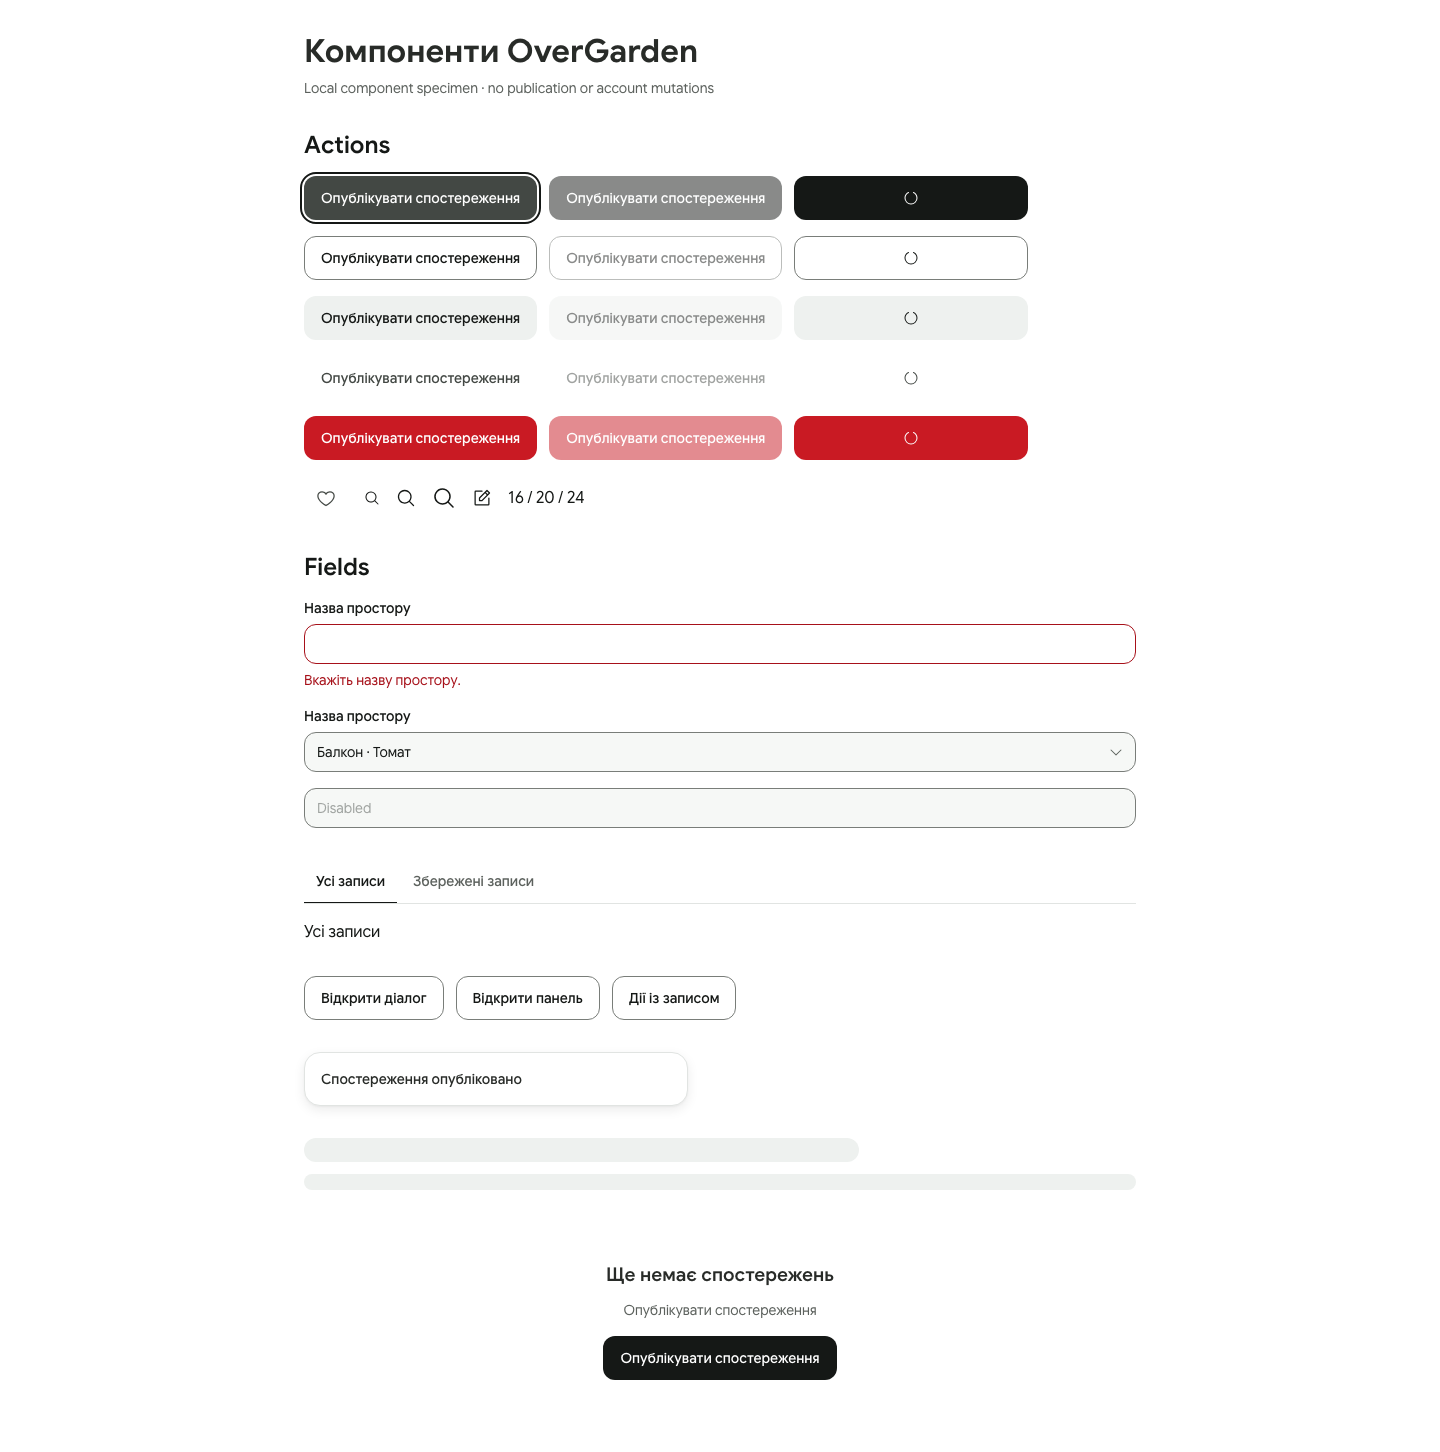
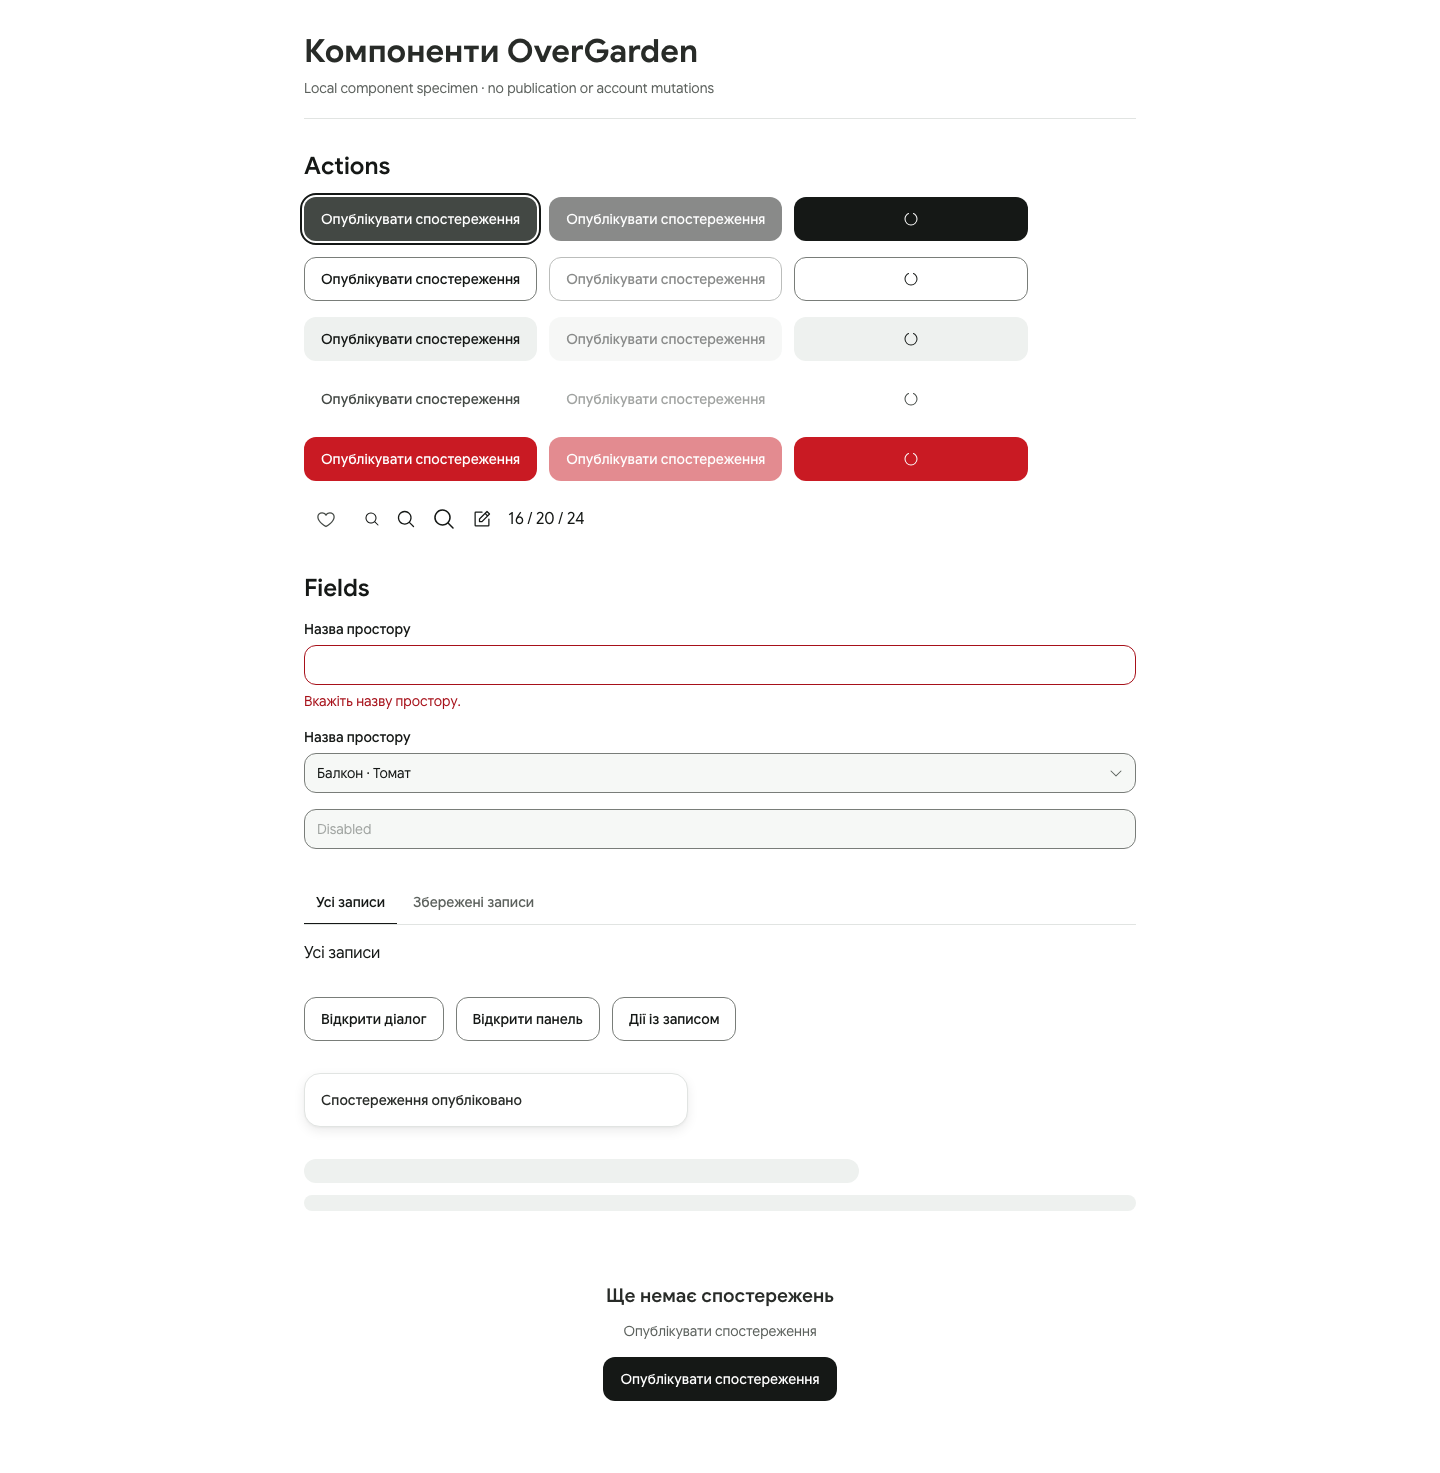
fix(design): preserve component reflow with enlarged text

diff --git a/apps/web/tests/component-specimens.spec.ts b/apps/web/tests/component-specimens.spec.ts
@@ -101,6 +101,7 @@ for (const locale of ["uk", "bg", "ru"])
       });
       await page.keyboard.press("Escape");
       await expect(page.getByTestId("menu-trigger")).toBeFocused();
+      await expect(page.getByRole("menu")).toHaveCount(0);
       await page.emulateMedia({ reducedMotion: "reduce" });
       expect(
         await page
@@ -113,17 +114,55 @@ for (const locale of ["uk", "bg", "ru"])
       await page.evaluate(() => {
         document.documentElement.style.fontSize = "200%";
       });
+      // A size change can load another font face; measure only the settled text.
+      await page.evaluate(() => document.fonts.ready);
       expect(
         await page.evaluate(
-          () => document.documentElement.scrollWidth <= window.innerWidth,
+          () =>
+            Math.max(
+              document.documentElement.scrollWidth,
+              document.body.scrollWidth,
+            ) <= window.innerWidth,
         ),
       ).toBe(true);
       await expect(primary).toBeVisible();
-      await page.screenshot({
+      const zoomImage = await page.screenshot({
         animations: "disabled",
         path: testInfo.outputPath(`${locale}-${width}-text-zoom.png`),
         fullPage: true,
       });
+      const geometry = await page.evaluate(() => ({
+        viewport: innerWidth,
+        width: Math.max(
+          document.documentElement.scrollWidth,
+          document.body.scrollWidth,
+        ),
+        overflow: [...document.querySelectorAll("main *")]
+          .filter((el) => el.getBoundingClientRect().right > innerWidth)
+          .map((el) => ({
+            tag: el.tagName,
+            slot: el.getAttribute("data-slot"),
+            cls: el.className,
+            right: el.getBoundingClientRect().right,
+          }))
+          .slice(0, 20),
+      }));
+      expect(geometry.width, JSON.stringify(geometry)).toBeLessThanOrEqual(
+        width,
+      );
+      expect(
+        await page.evaluate(
+          () =>
+            Math.max(
+              document.documentElement.scrollWidth,
+              document.body.scrollWidth,
+            ) <= window.innerWidth,
+        ),
+      ).toBe(true);
+      expect(
+        zoomImage.readUInt32BE(16),
+        "full-page PNG must not grow wider than the viewport",
+      ).toBe(width);
       await page.evaluate(() => {
         document.documentElement.style.fontSize = "";
       });

diff --git a/apps/web/src/components/ui/empty-state.tsx b/apps/web/src/components/ui/empty-state.tsx
@@ -52,7 +52,7 @@ function EmptyState({
         variant === "first-run" ? "empty-first-run" : "empty-no-results"
       }
       className={cn(
-        "grid justify-items-center gap-3 px-4 py-10 text-center",
+        "grid min-w-0 grid-cols-1 justify-items-center gap-3 px-4 py-10 text-center",
         className,
       )}
       {...props}
@@ -71,18 +71,21 @@ function EmptyState({
           className={cn(illustrationSize === "card" ? "size-24" : "size-36")}
         />
       ) : null}
-      <h3 id={headingId} className="text-h3 text-balance text-text-heading">
+      <h3
+        id={headingId}
+        className="max-w-full min-w-0 text-h3 text-balance break-words text-text-heading"
+      >
         {title}
       </h3>
       {description ? (
-        <p className="max-w-prose text-body-sm text-text-muted">
+        <p className="max-w-full min-w-0 text-body-sm break-words text-text-muted">
           {description}
         </p>
       ) : null}
       {variant === "no-results" && filters ? (
         <div className="flex flex-wrap justify-center gap-2">{filters}</div>
       ) : null}
-      {action ? <div className="mt-1">{action}</div> : null}
+      {action ? <div className="mt-1 max-w-full min-w-0">{action}</div> : null}
     </div>
   );
 }

diff --git a/apps/web/scripts/fixtures/component-specimen.tsx b/apps/web/scripts/fixtures/component-specimen.tsx
@@ -28,6 +28,7 @@ import {
 } from "../../src/components/ui/menu";
 import { Toast } from "../../src/components/ui/toast";
 import { Skeleton } from "../../src/components/ui/skeleton";
+import { PageHeader } from "../../src/components/ui/page-header";
 import { EmptyState } from "../../src/components/ui/empty-state";
 import {
   HeartIcon,
@@ -88,13 +89,11 @@ function Specimen() {
   const [liked, setLiked] = useState(false);
   const [chosen, setChosen] = useState(false);
   return (
-    <main className="mx-auto grid max-w-4xl gap-8 p-4 text-text sm:p-8">
-      <header>
-        <h1 className="text-h1 text-text-heading">{copy.title}</h1>
-        <p className="mt-2 text-body-sm text-text-muted">
-          Local component specimen · no publication or account mutations
-        </p>
-      </header>
+    <main className="mx-auto grid max-w-4xl grid-cols-1 gap-8 p-4 text-text sm:p-8">
+      <PageHeader
+        title={copy.title}
+        description="Local component specimen · no publication or account mutations"
+      />
       <section aria-label="Actions" className="grid gap-4">
         <h2 className="text-h2">Actions</h2>
         {(["primary", "secondary", "subtle", "ghost", "danger"] as const).map(

diff --git a/apps/web/src/components/ui/page-header.tsx b/apps/web/src/components/ui/page-header.tsx
@@ -30,12 +30,15 @@ function PageHeader({
   return (
     <header
       data-slot="page-header"
-      className={cn("grid gap-3 border-b border-border pb-5", className)}
+      className={cn(
+        "grid min-w-0 grid-cols-1 gap-3 border-b border-border pb-5",
+        className,
+      )}
       {...props}
     >
       {breadcrumb}
-      <div className="flex flex-wrap items-start justify-between gap-3">
-        <div className="grid min-w-0 gap-2">
+      <div className="flex min-w-0 flex-wrap items-start justify-between gap-3">
+        <div className="grid min-w-0 grid-cols-1 gap-2">
           {eyebrow ? (
             <p className="text-overline text-text-muted uppercase">{eyebrow}</p>
           ) : null}

diff --git a/apps/web/src/components/ui/input.tsx b/apps/web/src/components/ui/input.tsx
@@ -13,7 +13,7 @@ import { cn } from "@/lib/utils";
  */
 const controlVariants = cva(
   [
-    "w-full rounded-md border border-border-control bg-surface text-text",
+    "min-w-0 w-full rounded-md border border-border-control bg-surface text-text",
     "placeholder:text-text-muted",
     "transition-colors duration-instant ease-out outline-none",
     "focus-visible:border-focus-ring focus-visible:outline-2 focus-visible:outline-offset-2 focus-visible:outline-focus-ring",

diff --git a/apps/web/src/components/ui/field.tsx b/apps/web/src/components/ui/field.tsx
@@ -80,7 +80,11 @@ function Field({
       .join(" ") || undefined;
 
   return (
-    <div data-slot="field" className={cn("grid gap-1.5", className)} {...props}>
+    <div
+      data-slot="field"
+      className={cn("grid min-w-0 gap-1.5", className)}
+      {...props}
+    >
       <label
         htmlFor={controlId}
         className="flex items-baseline justify-between gap-2 text-body-sm font-medium text-text"

diff --git a/apps/web/src/components/ui/toast.tsx b/apps/web/src/components/ui/toast.tsx
@@ -67,7 +67,7 @@ function Toast({
       onMouseLeave={() => setPaused(false)}
       {...props}
     >
-      <div className="grid min-w-0 flex-1 gap-1">
+      <div className="grid min-w-0 flex-1 grid-cols-1 gap-1 break-words">
         <p className="text-body-sm font-medium text-text-heading">{title}</p>
         {description ? (
           <p className="text-body-sm text-text-muted">{description}</p>

diff --git a/apps/web/src/components/ui/button.tsx b/apps/web/src/components/ui/button.tsx
@@ -90,7 +90,10 @@ function Button({
       {...props}
     >
       <span
-        className={cn("inline-flex items-center gap-2", loading && "opacity-0")}
+        className={cn(
+          "inline-flex max-w-full min-w-0 items-center gap-2",
+          loading && "opacity-0",
+        )}
       >
         {children}
       </span>

diff --git a/apps/web/src/components/ui/tabs.tsx b/apps/web/src/components/ui/tabs.tsx
@@ -95,7 +95,11 @@ function Tabs({
   };
 
   return (
-    <div data-slot="tabs" className={cn("grid gap-4", className)} {...props}>
+    <div
+      data-slot="tabs"
+      className={cn("grid min-w-0 gap-4", className)}
+      {...props}
+    >
       <div
         role="tablist"
         aria-label={label}

diff --git a/docs/redesign/2026-09-21/OVE-477-PROOF.md b/docs/redesign/2026-09-21/OVE-477-PROOF.md
@@ -69,7 +69,14 @@ registered browser cases cover UK/BG/RU at 320 and 1440px:
 pressed action. White/action is 17.89:1, white/hover 9.34:1 and white/pressed
 19.75:1. Normal text clears 4.5:1 and meaningful control boundaries clear 3:1.
 Disabled controls and decorative separators are not falsely presented as normal
-text or meaningful boundaries. Automated checks supplement visual inspection.
+text or meaningful boundaries. Automated checks supplement visual inspection. The first zoom screenshots revealed
+intrinsic-width overflow in the specimen grid, PageHeader and EmptyState which
+an initial synchronous DOM check missed. The specimen uses a bounded column and
+real PageHeader. The shared header/empty state use bounded grid tracks, fields
+and tabs allow shrinking, and button/toast text can wrap. The
+browser test waits for font readiness after resizing and asserts the actual PNG
+width as well as body/document bounds. It failed at 371px before the correction;
+all three narrow screenshots now remain 320px.
 
 The screenshots in `ove-477/` show actual component states, dialogs, menus,
 forced colors and text zoom. Desktop and mobile product navigation were manually
